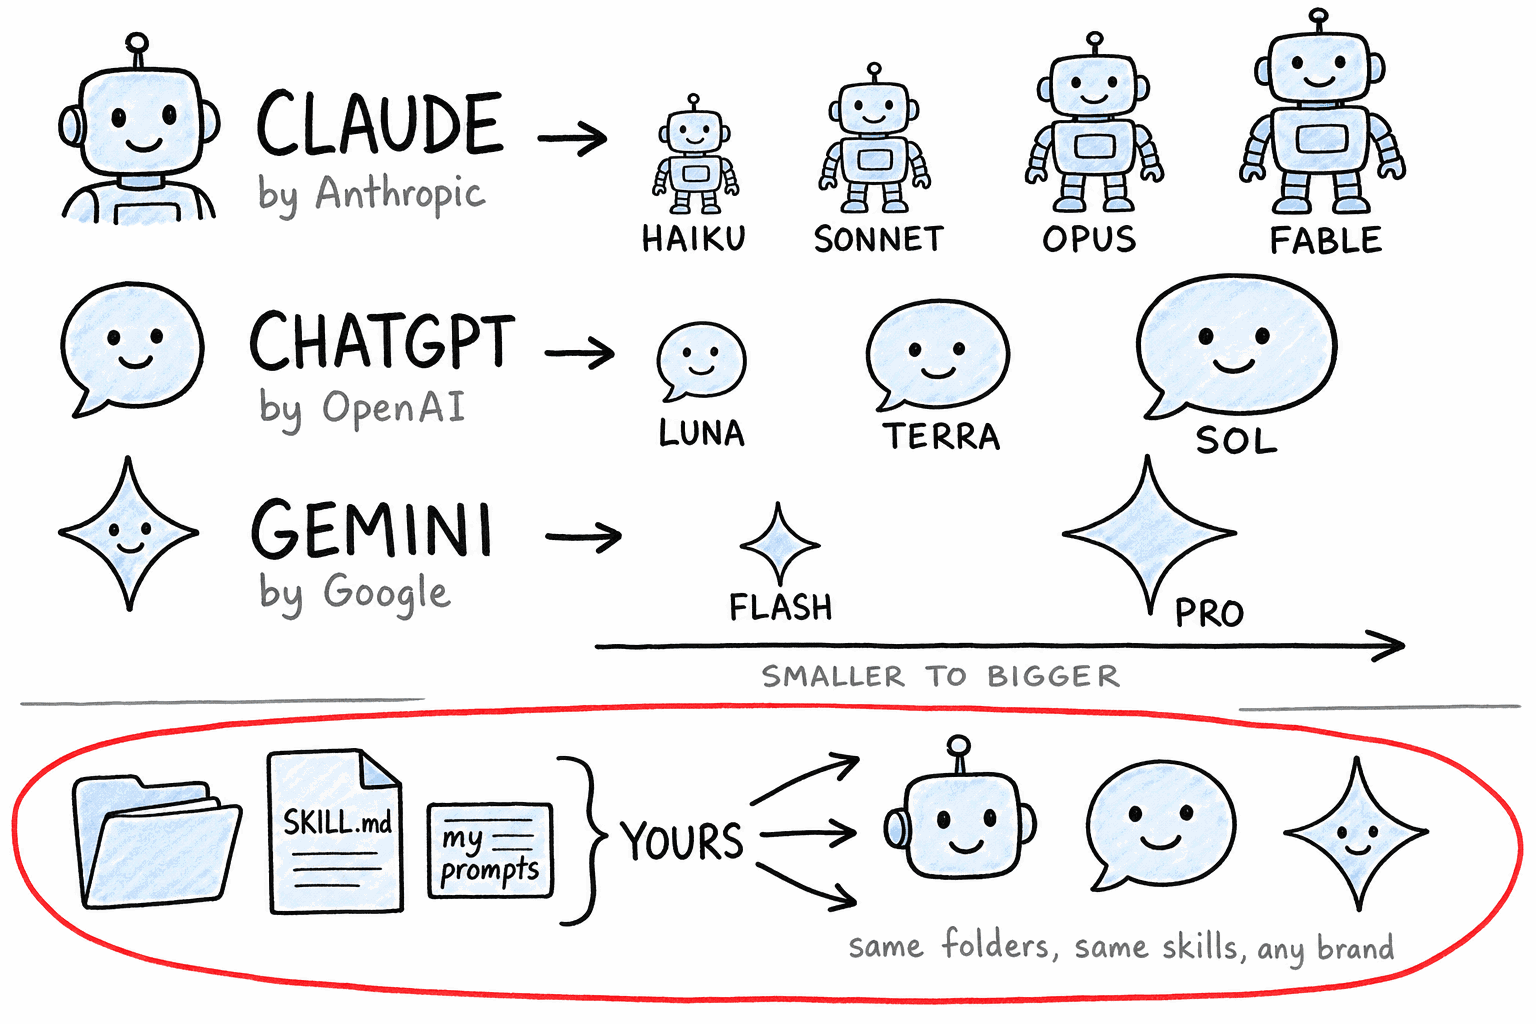
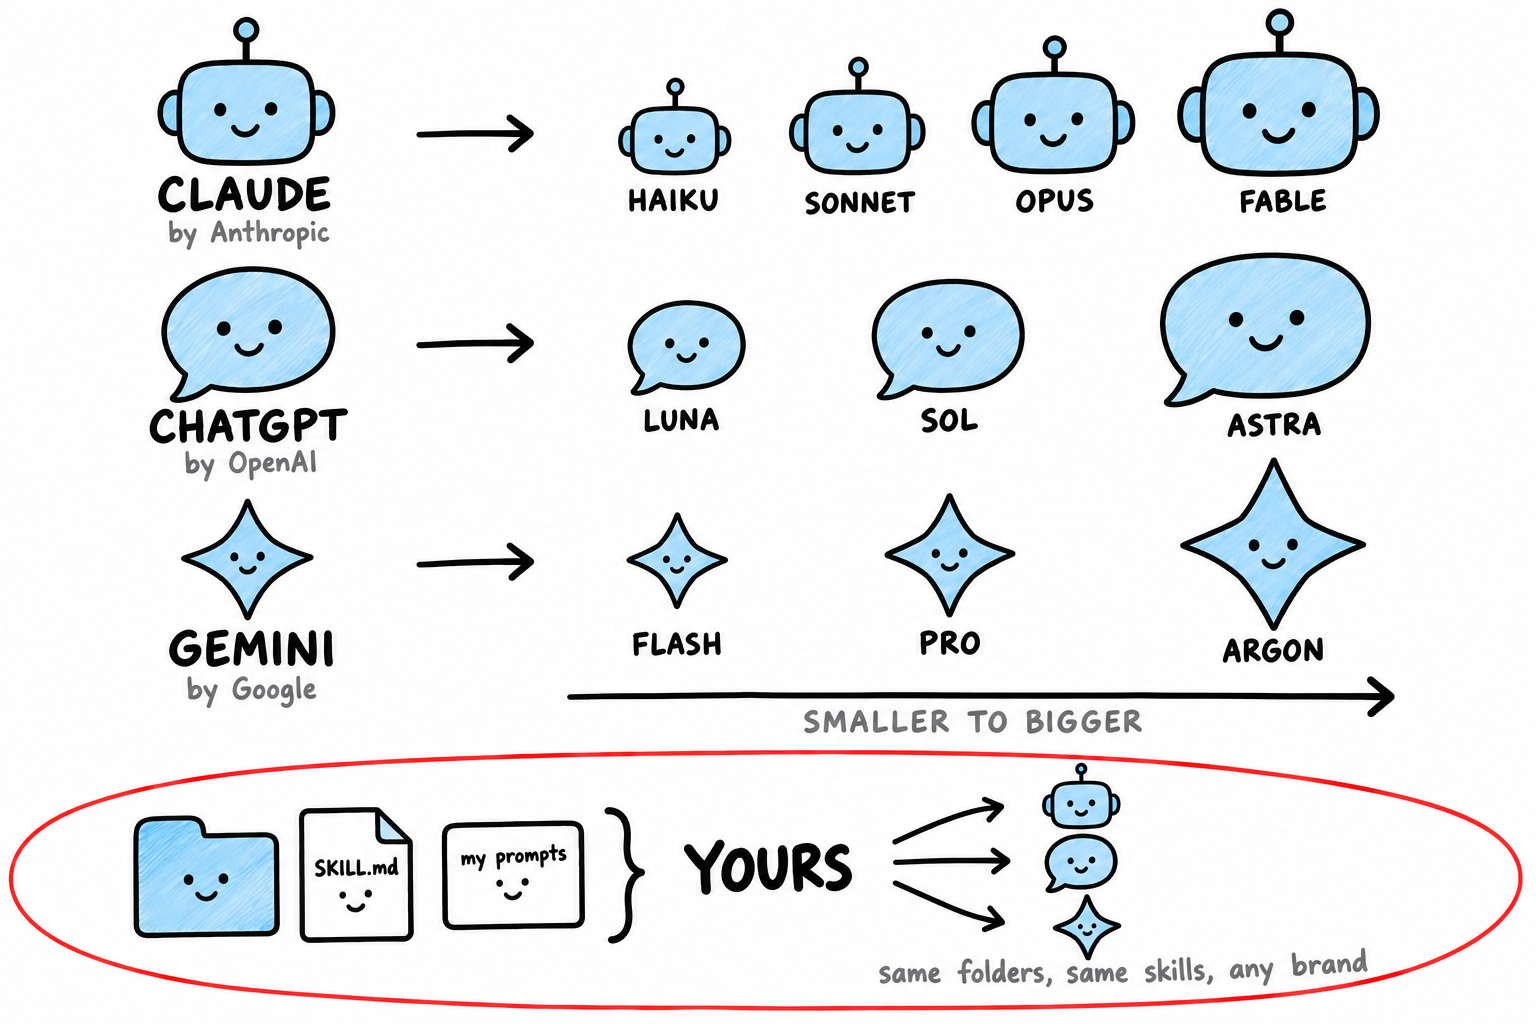
feat: refresh 1.3 model map with GPT-6 Astra and Gemini 4 Argon

Changed region(s): [[0.0, 0.0, 1.0, 1.0], [0.375, 0.2812, 0.5, 0.4375], [0.9375, 0.9062, 0.9688, 0.9375]]

diff --git a/fiba-ai-mentoring/INDEX.md b/fiba-ai-mentoring/INDEX.md
@@ -40,7 +40,7 @@ for the text.
 | 1 | section | (none) | The starting point | num 01 |
 | 2 | image | 001_s1-universal-loop.png | Everything works the same way, and here is the leap \|\| Any AI, app or SaaS does the same thing: it accesses data, interprets it, takes an action and produces a result. That loop has always existed. What AI changes is each stage: connecting to data is now easy (it used to take custom integrations), interpreting and acting took a huge leap (it understands language, documents and context, not just numbers), and the result can have far more impact: not a raw table but a report, a presentation, a decision ready for review. \|\| The loop is the same as always, but AI has dramatically amplified every stage, and that is why the leap has been a "quantum" one. | beat 1 |
 | 3 | image | 002_s1-chat-to-skills.png | From loose chat to skills \|\| Simple chat → custom instructions (Custom GPTs, Gems and Projects are the same thing with different names) → folders as context (the AI works on YOUR files, not from scratch) → skills: instructions PLUS tools, packaged for reuse. \|\| You build a skill once and run it as many times as you need, even on a schedule. | beat 2 |
-| 4 | image | 003_s1-llm-landscape.png | The map of models \|\| Three companies, three brands, and inside each brand a ladder of models: the small ones are fast and light, the big ones are more capable. What you learn today works in any of them: folders, MD files, skills and connectors move with you if you ever switch providers. \|\| You don't marry a provider: you build ways of working that are portable. | beat 3 |
+| 4 | image | 003_s1-llm-landscape.png | The map of models \|\| Three companies, three brands, and inside each brand a ladder of models: the small ones are fast and light, the big ones are more capable. What you learn today works in any of them: folders, MD files, skills and connectors move with you if you ever switch providers. \|\| You don't marry a provider: you build ways of working that are portable. | beat 3 · source: ~/OS/diagrams/workshops/llm-landscape/loop-prompt.md (Codex, 261015: GPT-6 Luna/Sol/Astra, Gemini Flash/Pro/Argon) |
 | 5 | image | 004_s1-agent-vs-skill.png | Agent vs skill \|\| The agent is the one doing the work; the skill is the recipe you hand it so the work comes out just as well every time. \|\| The skills are yours: you can give them to any agent. | beat 3 |
 | 6 | image | 005_s1-three-pillars.png | The three pillars \|\| Folders: this is where your data and your context LIVE: the files you work with and what the AI produces along the way; you pick up earlier work instead of starting from zero. Connectors: this is how data that lives in other apps COMES IN (email, calendar, spreadsheets, your ERP): each app publishes its data and the connector brings it to your AI. Skills: repeatable work, captured once and improved over time. \|\| These three are the structure: where your material lives, how data enters the system and what work runs on that data. | beat 4 |
 
